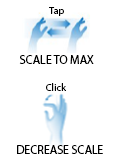
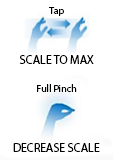
RS integration - gestures context improvements

Changed region(s): [[0.1062, 0.5, 0.9292, 0.9688]]

diff --git a/beesoft-app/beesoft-usb/src/main/java/replicatorg/app/ui/mainWindow/ButtonsPanel.java b/beesoft-app/beesoft-usb/src/main/java/replicatorg/app/ui/mainWindow/ButtonsPanel.java
@@ -53,6 +53,9 @@ public class ButtonsPanel extends javax.swing.JPanel {
             intelIcon.setIcon(new javax.swing.ImageIcon(getClass().getResource("/replicatorg/app/ui/mainWindow/intel.png")));
             rsHelp2.setIcon(new javax.swing.ImageIcon(getClass().getResource("/replicatorg/app/ui/mainWindow/scan_model_gesture.png")));
             rsHelp1.setIcon(new javax.swing.ImageIcon(getClass().getResource("/replicatorg/app/ui/mainWindow/start_print_gesture.png")));
+            rsHelp1.setVisible(true);
+            rsHelp2.setVisible(true);
+            
             rsScan.setVisible(true);
             rsScan.setText(Languager.getTagValue(1, "MainWindowButtons", "ScanModel"));
             rsScan.setFont(getSSProLight("13"));
@@ -60,7 +63,26 @@ public class ButtonsPanel extends javax.swing.JPanel {
             rsScan.setVisible(false);
         }
     }
+    
+    public void hideScanGesture() {
+        rsHelp1.setVisible(false);
+        rsHelp2.setIcon(new javax.swing.ImageIcon(getClass().getResource("/replicatorg/app/ui/mainWindow/start_print_gesture.png")));        
+    }
 
+    public void hidePrintGesture() {
+        rsHelp1.setVisible(false);
+        rsHelp2.setIcon(new javax.swing.ImageIcon(getClass().getResource("/replicatorg/app/ui/mainWindow/scan_model_gesture.png"))); 
+    }
+    
+    public void hideAllGestures() {
+        rsHelp1.setVisible(false);
+        rsHelp2.setVisible(false);
+    }
+    
+    public void showAllGestures() {
+        this.loadRSComponents();
+    }
+        
     private void setTextLanguage() {
         jLabel6.setText(Languager.getTagValue(1, "MainWindowButtons", "Models"));
         jLabel4.setText(Languager.getTagValue(1, "MainWindowButtons", "Maintenance"));

diff --git a/beesoft-app/beesoft-usb/src/main/java/replicatorg/app/Base.java b/beesoft-app/beesoft-usb/src/main/java/replicatorg/app/Base.java
@@ -1089,24 +1089,32 @@ public class Base {
         Base.RSScaleActive =  true;
         Base.RSRotateActive = false;
         Base.RSPrintPanelActive = false;
+        
+        Base.getMainWindow().getButtons().hideScanGesture();
     } 
     
     static public void switchRSContextToRotate() {
         Base.RSScaleActive =  false;
         Base.RSRotateActive = true;
         Base.RSPrintPanelActive = false;
+        
+        Base.getMainWindow().getButtons().hideScanGesture();
     } 
     
     static public void switchRSContextToPrint() {
         Base.RSScaleActive =  false;
         Base.RSRotateActive = false;
         Base.RSPrintPanelActive = true;
+        
+        Base.getMainWindow().getButtons().hideAllGestures();
     } 
     
     static public void switchRSContextToMain() {
         Base.RSScaleActive =  false;
         Base.RSRotateActive = false;
         Base.RSPrintPanelActive = false;
+        
+        Base.getMainWindow().getButtons().showAllGestures();
     } 
         
     static public boolean isRSScaleActive() {

diff --git a/beesoft-app/beesoft-usb/src/main/java/replicatorg/app/util/RSProcessor.java b/beesoft-app/beesoft-usb/src/main/java/replicatorg/app/util/RSProcessor.java
@@ -247,7 +247,7 @@ public class RSProcessor extends Thread implements Runnable {
 
                     if (handData.IsGestureFired("full_pinch", gestData) && Base.isRSScaleActive()) {
                         if ((System.currentTimeMillis() - gestureStartTime) > 2000) { //Prevents double gestures
-                            Base.getMainWindow().showCustomMessage("CLICK detected! Reducing model size.");
+                            Base.getMainWindow().showCustomMessage("FULL PINCH detected! Reducing model size.");
 
                             if (Base.getMainWindow().getCanvas().getControlTool(3).getModelsScaleCenter() == null) {
                                 Base.getMainWindow().updateModelsOperationCenter(new ModelsOperationCenterScale());
